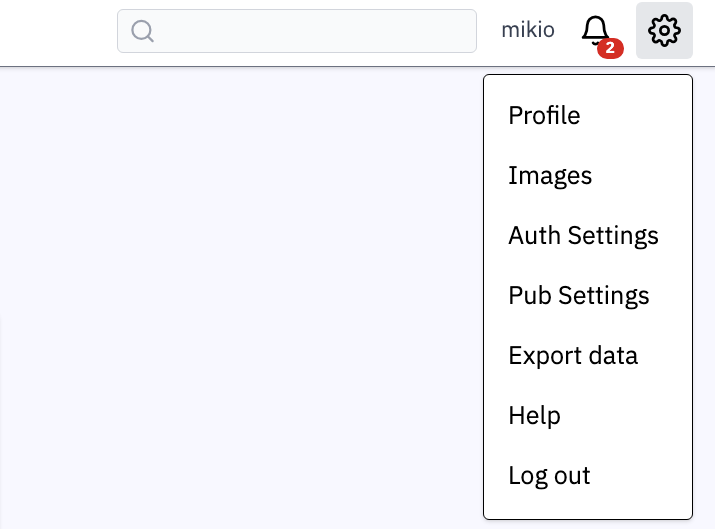
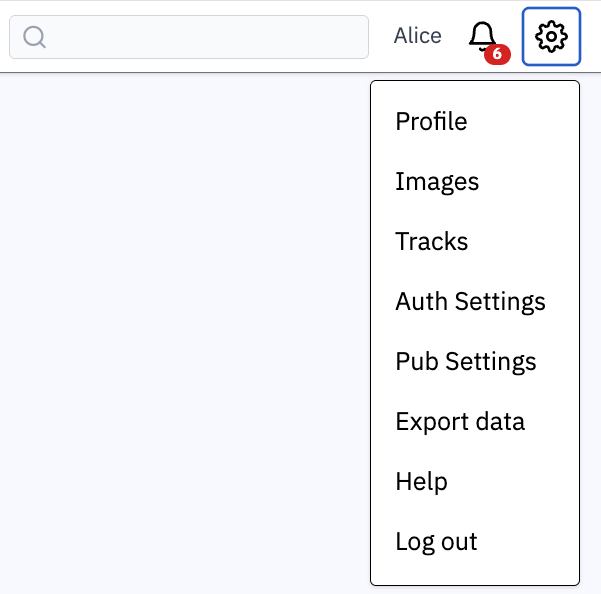
Add helps

Changed region(s): [[0.0, 0.0, 1.0, 0.9981], [0.03, 0.0, 0.6589, 0.0907]]

diff --git a/frontend/src/components/TrackUploadDialog.tsx b/frontend/src/components/TrackUploadDialog.tsx
@@ -106,17 +106,17 @@ function TrackPreviewMetadata({ metadata }: { metadata: TrackUploadPreviewMetada
   if (!startTime && !distance && !elapsedTime) return null;
 
   return (
-    <div className="overflow-x-auto whitespace-nowrap text-[15px] leading-5 text-gray-600">
-      {startTime && <span>Start: {startTime}</span>}
-      {distance && (
-        <span>
-          {startTime ? " " : ""}Distance: {distance}
-        </span>
-      )}
-      {elapsedTime && (
-        <span>
-          {startTime || distance ? " " : ""}Elapsed: {elapsedTime}
-        </span>
+    <div className="overflow-x-auto whitespace-nowrap text-[13px] leading-5 text-gray-600">
+      {startTime && <div>Start time: {startTime}</div>}
+      {(distance || elapsedTime) && (
+        <div>
+          {distance && <>Distance: {distance}</>}
+          {elapsedTime && (
+            <>
+              {distance ? " " : ""}Elapsed: {elapsedTime}
+            </>
+          )}
+        </div>
       )}
     </div>
   );
@@ -408,11 +408,16 @@ export default function TrackUploadDialog({ userId, files, maxCount, onClose, on
                             ? "Preview error"
                             : "Ready";
               return (
-                <li key={item.id} className="rounded border bg-white overflow-hidden mx-auto">
+                <li
+                  key={item.id}
+                  className={
+                    "w-[70vw] sm:w-[44vw] md:w-[28vw] lg:w-[24vw] xl:w-[22vw] " +
+                    "rounded border bg-white overflow-hidden mx-auto"
+                  }
+                >
                   <div
                     className={
-                      "relative w-[70vw] sm:w-[44vw] md:w-[28vw] " +
-                      "lg:w-[24vw] xl:w-[22vw] aspect-video bg-gray-50 " +
+                      "relative w-full aspect-[4/3] bg-gray-50 " +
                       "flex items-center justify-center"
                     }
                   >
@@ -442,20 +447,15 @@ export default function TrackUploadDialog({ userId, files, maxCount, onClose, on
                     )}
                   </div>
 
-                  <div className="p-3 text-sm text-gray-800 space-y-2 min-w-[260px]">
-                    <div className="font-medium truncate max-w-60" title={item.name}>
+                  <div className="w-full min-w-0 p-3 text-sm text-gray-800 space-y-2">
+                    <div className="font-medium truncate max-w-full" title={item.name}>
                       {item.name}
                     </div>
                     {item.previewMetadata && (
                       <TrackPreviewMetadata metadata={item.previewMetadata} />
                     )}
                     {kind === "FIT" && (
-                      <div
-                        className={
-                          "flex flex-wrap items-center gap-x-1 gap-y-1 " +
-                          "text-[13px] text-gray-700"
-                        }
-                      >
+                      <div className="text-[13px] text-gray-700">
                         <label className="inline-flex items-center gap-1 whitespace-nowrap">
                           <input
                             type="checkbox"
@@ -467,60 +467,69 @@ export default function TrackUploadDialog({ userId, files, maxCount, onClose, on
                               });
                             }}
                           />
-                          Obfuscate coordinate
+                          Obfuscate coordinates
                         </label>
-                        <label className="inline-flex items-center gap-1 whitespace-nowrap">
-                          start:
-                          <input
-                            type="number"
-                            min={0}
-                            max={maxObfuscationDistanceM}
-                            step={1}
-                            value={item.obfuscateStartDistanceM}
-                            disabled={busy || !item.obfuscateCoordinates}
-                            className={
-                              "w-[72px] rounded border border-gray-300 " + "px-1 py-0.5 text-right"
-                            }
-                            onChange={(event) => {
-                              setItemState(item.id, {
-                                obfuscateStartDistanceM: normalizeTrackObfuscationDistance(
-                                  Number(event.target.value),
-                                  item.previewMetadata?.totalDistanceM,
-                                ),
-                              });
-                            }}
-                            onBlur={() => {
-                              void refreshItemPreview(item, getItemObfuscation(item));
-                            }}
-                          />
-                          m
-                        </label>
-                        <label className="inline-flex items-center gap-1 whitespace-nowrap">
-                          end:
-                          <input
-                            type="number"
-                            min={0}
-                            max={maxObfuscationDistanceM}
-                            step={1}
-                            value={item.obfuscateEndDistanceM}
-                            disabled={busy || !item.obfuscateCoordinates}
-                            className={
-                              "w-[72px] rounded border border-gray-300 " + "px-1 py-0.5 text-right"
-                            }
-                            onChange={(event) => {
-                              setItemState(item.id, {
-                                obfuscateEndDistanceM: normalizeTrackObfuscationDistance(
-                                  Number(event.target.value),
-                                  item.previewMetadata?.totalDistanceM,
-                                ),
-                              });
-                            }}
-                            onBlur={() => {
-                              void refreshItemPreview(item, getItemObfuscation(item));
-                            }}
-                          />
-                          m
-                        </label>
+                        <div
+                          className={
+                            "mt-1 flex flex-wrap items-center gap-x-1 gap-y-1 " +
+                            (item.obfuscateCoordinates ? "text-gray-700" : "text-gray-300")
+                          }
+                        >
+                          <label className="inline-flex items-center gap-1 whitespace-nowrap">
+                            start:
+                            <input
+                              type="number"
+                              min={0}
+                              max={maxObfuscationDistanceM}
+                              step={1}
+                              value={item.obfuscateStartDistanceM}
+                              disabled={busy || !item.obfuscateCoordinates}
+                              className={
+                                "w-[72px] rounded border border-gray-300 px-1 py-0.5 text-right " +
+                                "disabled:border-gray-200 disabled:bg-gray-50 disabled:text-gray-300"
+                              }
+                              onChange={(event) => {
+                                setItemState(item.id, {
+                                  obfuscateStartDistanceM: normalizeTrackObfuscationDistance(
+                                    Number(event.target.value),
+                                    item.previewMetadata?.totalDistanceM,
+                                  ),
+                                });
+                              }}
+                              onBlur={() => {
+                                void refreshItemPreview(item, getItemObfuscation(item));
+                              }}
+                            />
+                            m
+                          </label>
+                          <label className="inline-flex items-center gap-1 whitespace-nowrap">
+                            end:
+                            <input
+                              type="number"
+                              min={0}
+                              max={maxObfuscationDistanceM}
+                              step={1}
+                              value={item.obfuscateEndDistanceM}
+                              disabled={busy || !item.obfuscateCoordinates}
+                              className={
+                                "w-[72px] rounded border border-gray-300 px-1 py-0.5 text-right " +
+                                "disabled:border-gray-200 disabled:bg-gray-50 disabled:text-gray-300"
+                              }
+                              onChange={(event) => {
+                                setItemState(item.id, {
+                                  obfuscateEndDistanceM: normalizeTrackObfuscationDistance(
+                                    Number(event.target.value),
+                                    item.previewMetadata?.totalDistanceM,
+                                  ),
+                                });
+                              }}
+                              onBlur={() => {
+                                void refreshItemPreview(item, getItemObfuscation(item));
+                              }}
+                            />
+                            m
+                          </label>
+                        </div>
                       </div>
                     )}
                     <div className="text-[12px] text-gray-700">

diff --git a/frontend/src/utils/trackPreview.ts b/frontend/src/utils/trackPreview.ts
@@ -2,8 +2,7 @@ import type { TrackActivityMetadata } from "stgy-track/activity";
 import { getTrackFileKind, getTrackUploadContentType, getTrackUploadFilename } from "./tracks";
 
 export const TRACK_UPLOAD_PREVIEW_MAX_POINTS = 3000;
-export const TRACK_OBFUSCATION_MIN_DISTANCE_M = 1000;
-export const TRACK_OBFUSCATION_MAX_DISTANCE_M = 1500;
+export const TRACK_OBFUSCATION_DEFAULT_DISTANCE_M = 1000;
 export const TRACK_OBFUSCATION_MAX_ROUTE_RATIO = 0.05;
 
 export type TrackUploadPreviewMetadata = Pick<
@@ -146,11 +145,14 @@ export async function makeTrackJsonPreviewJson(
 
 export function createTrackObfuscationDistances(
   totalDistanceM: number | undefined,
-  random: () => number = Math.random,
 ): TrackObfuscationDistances {
+  const defaultDistanceM = normalizeTrackObfuscationDistance(
+    TRACK_OBFUSCATION_DEFAULT_DISTANCE_M,
+    totalDistanceM,
+  );
   return {
-    startDistanceM: createTrackObfuscationDistance(totalDistanceM, random),
-    endDistanceM: createTrackObfuscationDistance(totalDistanceM, random),
+    startDistanceM: defaultDistanceM,
+    endDistanceM: defaultDistanceM,
   };
 }
 
@@ -218,26 +220,6 @@ export async function prepareTrackUploadPayload(
     filename,
     contentType,
   };
-}
-
-function createTrackObfuscationDistance(
-  totalDistanceM: number | undefined,
-  random: () => number,
-): number {
-  const maxDistanceM = getTrackObfuscationMaxDistance(totalDistanceM);
-  if (maxDistanceM !== undefined && maxDistanceM < TRACK_OBFUSCATION_MIN_DISTANCE_M) {
-    return maxDistanceM;
-  }
-
-  const upper = Math.min(
-    TRACK_OBFUSCATION_MAX_DISTANCE_M,
-    maxDistanceM ?? TRACK_OBFUSCATION_MAX_DISTANCE_M,
-  );
-  const fraction = Math.min(Math.max(random(), 0), 0.999999999999);
-  return (
-    TRACK_OBFUSCATION_MIN_DISTANCE_M +
-    Math.floor(fraction * (upper - TRACK_OBFUSCATION_MIN_DISTANCE_M + 1))
-  );
 }
 
 function copyUint8ArrayToArrayBuffer(bytes: Uint8Array): ArrayBuffer {

diff --git a/backend/src/services/tracks.test.ts b/backend/src/services/tracks.test.ts
@@ -7,8 +7,8 @@ import type { StorageService } from "./storage";
 jest.mock("../config", () => ({
   Config: {
     MEDIA_BUCKET_TRACKS: "test-bucket-tracks",
-    MEDIA_TRACK_BYTE_LIMIT: 20 * 1024 * 1024,
-    MEDIA_TRACK_BYTE_LIMIT_PER_MONTH: 200 * 1024 * 1024,
+    MEDIA_TRACK_BYTE_LIMIT: 10 * 1024 * 1024,
+    MEDIA_TRACK_BYTE_LIMIT_PER_MONTH: 100 * 1024 * 1024,
     MEDIA_TRACK_PREVIEW_MAX_POINTS: 3000,
     MEDIA_TRACK_JSON_BYTE_LIMIT: 1024,
     MEDIA_TRACK_JSON_FEATURE_LIMIT: 100,
@@ -114,7 +114,7 @@ describe("TracksService", () => {
         "Content-Type": "application/octet-stream",
       },
       objectKey: "tracks-staging/u1/uuid.fit",
-      maxBytes: 20 * 1024 * 1024,
+      maxBytes: 10 * 1024 * 1024,
       expiresInSec: 300,
     };
     storage.createPresignedPost.mockResolvedValueOnce(presigned);
@@ -146,7 +146,7 @@ describe("TracksService", () => {
         "Content-Type": "application/gzip",
       },
       objectKey: "tracks-staging/u1/uuid.trjgz",
-      maxBytes: 20 * 1024 * 1024,
+      maxBytes: 10 * 1024 * 1024,
       expiresInSec: 300,
     });
 
@@ -165,14 +165,14 @@ describe("TracksService", () => {
   });
 
   test("presignTrackUpload: rejects single-file over limit", async () => {
-    await expect(service.presignTrackUpload(userId, "big.fit", 30 * 1024 * 1024)).rejects.toThrow(
+    await expect(service.presignTrackUpload(userId, "big.fit", 11 * 1024 * 1024)).rejects.toThrow(
       /file too large/i,
     );
   });
 
   test("presignTrackUpload: rejects monthly quota exceeded", async () => {
     storage.listObjects
-      .mockResolvedValueOnce([makeMeta("u1/masters/797491/a.fit", 199 * 1024 * 1024)])
+      .mockResolvedValueOnce([makeMeta("u1/masters/797491/a.fit", 99 * 1024 * 1024)])
       .mockResolvedValueOnce([makeMeta("u1/previews/797491/a.trjgz", 2 * 1024 * 1024)]);
 
     await expect(service.presignTrackUpload(userId, "next.fit", 1 * 1024 * 1024)).rejects.toThrow(
@@ -290,7 +290,7 @@ describe("TracksService", () => {
     );
     storage.loadObject.mockResolvedValueOnce(makeFitBytes()).mockResolvedValueOnce(makeFitBytes());
     storage.listObjects
-      .mockResolvedValueOnce([makeMeta("u1/masters/797491/a.fit", 199 * 1024 * 1024)])
+      .mockResolvedValueOnce([makeMeta("u1/masters/797491/a.fit", 99 * 1024 * 1024)])
       .mockResolvedValueOnce([makeMeta("u1/previews/797491/a.trjgz", 2 * 1024 * 1024)]);
 
     await expect(service.finalizeTrack(userId, stagingKey)).rejects.toThrow(
@@ -403,8 +403,8 @@ describe("TracksService", () => {
       bytesMasters: 30,
       bytesPreviews: 3,
       bytesTotal: 33,
-      limitSingleBytes: 20 * 1024 * 1024,
-      limitMonthlyBytes: 200 * 1024 * 1024,
+      limitSingleBytes: 10 * 1024 * 1024,
+      limitMonthlyBytes: 100 * 1024 * 1024,
     });
   });
 

diff --git a/frontend/src/utils/trackPreview.test.ts b/frontend/src/utils/trackPreview.test.ts
@@ -12,8 +12,7 @@ import {
   parseTrackJsonData,
 } from "stgy-track/trackjson";
 import {
-  TRACK_OBFUSCATION_MAX_DISTANCE_M,
-  TRACK_OBFUSCATION_MIN_DISTANCE_M,
+  TRACK_OBFUSCATION_DEFAULT_DISTANCE_M,
   TRACK_UPLOAD_PREVIEW_MAX_POINTS,
   createTrackObfuscationDistances,
   formatTrackPreviewDistance,
@@ -270,19 +269,15 @@ test("obfuscates FIT bytes before building the preview when enabled", async () =
   expect(parseFitBytesMock).toHaveBeenCalledWith(obfuscated);
 });
 
-test("chooses independent random obfuscation distances within 1000-1500m", () => {
-  const values = [0, 0.999999];
-  const distances = createTrackObfuscationDistances(100_000, () => values.shift() || 0);
-
-  expect(distances).toEqual({
-    startDistanceM: TRACK_OBFUSCATION_MIN_DISTANCE_M,
-    endDistanceM: TRACK_OBFUSCATION_MAX_DISTANCE_M,
+test("uses a fixed 1000m default obfuscation distance", () => {
+  expect(createTrackObfuscationDistances(100_000)).toEqual({
+    startDistanceM: TRACK_OBFUSCATION_DEFAULT_DISTANCE_M,
+    endDistanceM: TRACK_OBFUSCATION_DEFAULT_DISTANCE_M,
   });
 });
 
 test("caps default and edited obfuscation distances at five percent", () => {
-  const values = [0.25, 0.75];
-  expect(createTrackObfuscationDistances(20_000, () => values.shift() || 0)).toEqual({
+  expect(createTrackObfuscationDistances(20_000)).toEqual({
     startDistanceM: 1000,
     endDistanceM: 1000,
   });

diff --git a/backend/src/config.ts b/backend/src/config.ts
@@ -49,10 +49,10 @@ export class Config {
     100 * 1024 * 1024,
   );
   static readonly MEDIA_BUCKET_TRACKS = Config.STORAGE_S3_BUCKET_PREFIX + "-tracks";
-  static readonly MEDIA_TRACK_BYTE_LIMIT = envNum("STGY_MEDIA_TRACK_BYTE_LIMIT", 20 * 1024 * 1024);
+  static readonly MEDIA_TRACK_BYTE_LIMIT = envNum("STGY_MEDIA_TRACK_BYTE_LIMIT", 10 * 1024 * 1024);
   static readonly MEDIA_TRACK_BYTE_LIMIT_PER_MONTH = envNum(
     "STGY_MEDIA_TRACK_BYTE_LIMIT_PER_MONTH",
-    200 * 1024 * 1024,
+    100 * 1024 * 1024,
   );
   static readonly MEDIA_TRACK_PREVIEW_MAX_POINTS = envNum(
     "STGY_MEDIA_TRACK_PREVIEW_MAX_POINTS",

diff --git a/frontend/src/config.ts b/frontend/src/config.ts
@@ -32,11 +32,11 @@ export class Config {
   );
   static readonly MEDIA_TRACK_BYTE_LIMIT = normNum(
     process.env.NEXT_PUBLIC_MEDIA_TRACK_BYTE_LIMIT,
-    20 * 1024 * 1024,
+    10 * 1024 * 1024,
   );
   static readonly MEDIA_TRACK_BYTE_LIMIT_PER_MONTH = normNum(
     process.env.NEXT_PUBLIC_MEDIA_TRACK_BYTE_LIMIT_PER_MONTH,
-    200 * 1024 * 1024,
+    100 * 1024 * 1024,
   );
   static readonly MEDIA_TRACK_COUNT_LIMIT_ONCE = normNum(
     process.env.NEXT_PUBLIC_MEDIA_TRACK_COUNT_LIMIT_ONCE,